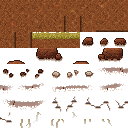
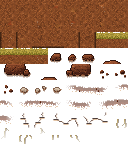
feat: rondas 7 a 9 del detalle de campo: grava a mano, 16 variantes, más bordes con variante (S111)
Claude-Session: https://claude.ai/code/session_01Tj7tjkCUNGtktrKzZoqqzz

diff --git a/src/assets/manifest.ts b/src/assets/manifest.ts
@@ -146,7 +146,7 @@ export const tilesetKey = (biome: string): string => `tiles_${biome}`;
 /** Hoja de detalle del terreno (S109) y su JSON: `tiles/detalle/<hoja>.png` y `.json` (tools/make-terrain-tiles.mjs). */
 export const terrainDetailKey = (sheet: string): string => `tiles_detail_${sheet}`;
 export const terrainDetailLayoutKey = (sheet: string): string => `tiles_detail_${sheet}_layout`;
-const TERRAIN_DETAIL_SHEETS = { cerro: [128, 176], estero: [128, 144], campo: [128, 128] } as const;
+const TERRAIN_DETAIL_SHEETS = { cerro: [128, 176], estero: [128, 144], campo: [128, 144] } as const;
 
 export const MANIFEST: AssetEntry[] = [
   ...BIOMES.map(

diff --git a/tests/terrainDetailCampo.test.ts b/tests/terrainDetailCampo.test.ts
@@ -43,7 +43,8 @@ describe('detalle del terreno de l3 (S111)', () => {
     // Cerro (l1) sigue con la configuración común, sin tocar.
     expect(detailConfigFor(base, 'cerro')).toEqual({ ...base });
     expect(CFG.fillChance).toBe(base.fillChance);
-    expect(CFG.edgeChance).toBe(base.edgeChance);
+    // El piso del campo es lo que más se ve: más bordes con variante que en cerro.
+    expect(CFG.edgeChance).toBeGreaterThan(base.edgeChance);
     // Nada sobre el aire: sin el pasto de las esquinas; sin cristales (l3 no tiene cuevas).
     expect(CFG.overhangChance).toBe(0);
     expect(CFG.crystal.chance).toBe(0);

diff --git a/tests/campoTiles.test.ts b/tests/campoTiles.test.ts
@@ -85,7 +85,7 @@ describe('detalle del terreno de campo (S111)', () => {
   });
 
   it('las variantes conservan el anillo de 2 px de la casilla que reemplazan (el pasto del piso, solo en el centro)', () => {
-    expect(layout.fill).toHaveLength(12);
+    expect(layout.fill).toHaveLength(16);
     for (const id of layout.fill) expect(ring(d(id)), `relleno ${id}`).toEqual(ring(tiles[15]));
     expect(Object.keys(layout.edges).sort()).toEqual(['11', '13', '14', '7']);
     for (const mask of [11, 7, 13]) for (const id of layout.edges[String(mask)]) expect(ring(d(id)), `${mask}: ${id}`).toEqual(ring(tiles[mask]));

diff --git a/src/config/gameplay.ts b/src/config/gameplay.ts
@@ -2604,6 +2604,8 @@ export const GAMEPLAY = {
          * de laterita y piedras de itakurú, sueltas o en concreciones de 2 × 2.
          */
         campo: {
+          /** Los bordes con variante, más que en cerro: el piso del campo (la 14, cinco variantes) es lo que más se ve. */
+          edgeChance: 0.75,
           overhangChance: 0,
           crystal: { reach: 2, minDepth: 2, maxDepth: 3, chance: 0 },
           rootsChance: 0.11,
